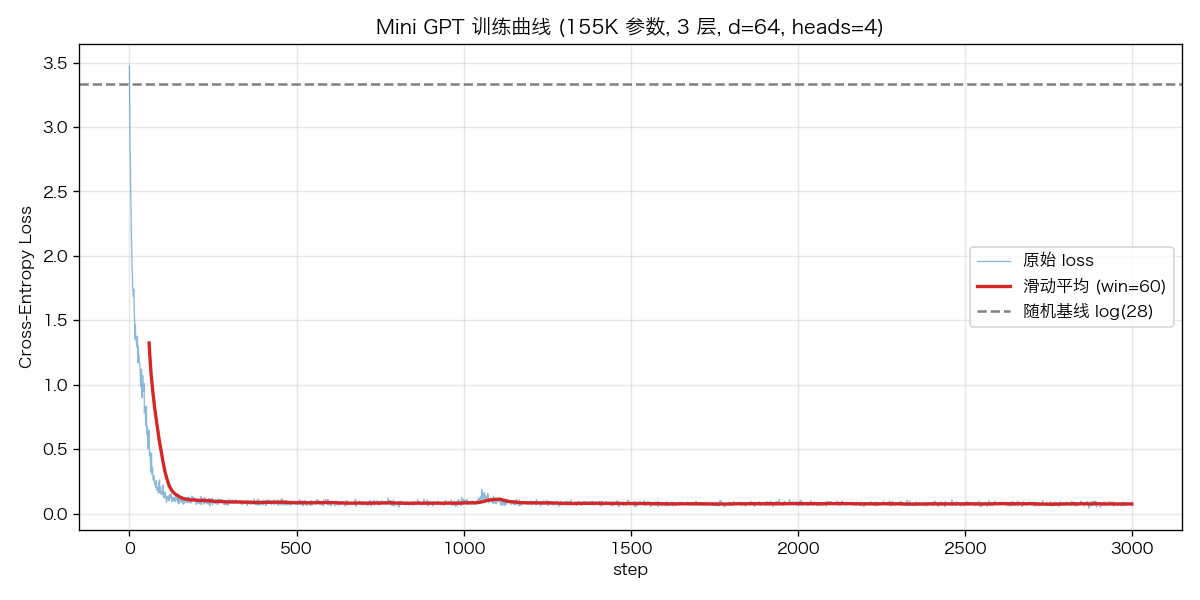
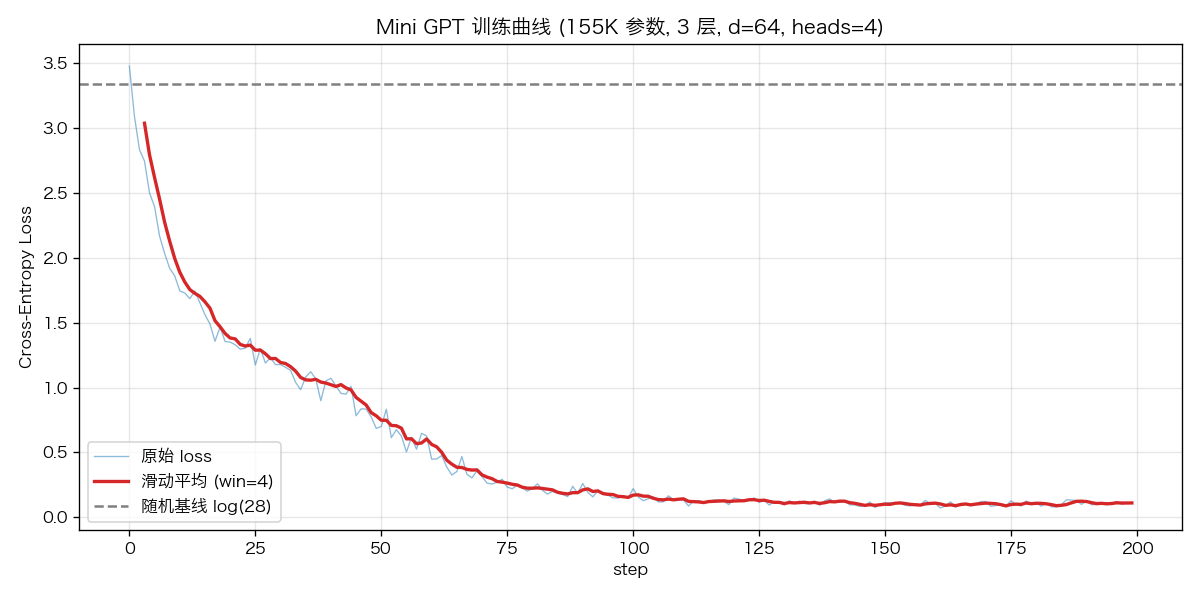
update scripts

diff --git a/exercises/transformer/common.py b/exercises/transformer/common.py
@@ -1,4 +1,10 @@
-"""共用工具:matplotlib 中文配置 + --plot 参数解析 + 保存到 plots/ 子目录。"""
+"""共用工具:matplotlib 中文配置 + --plot/--save 参数解析 + 保存到 plots/ 子目录。
+
+参数语义:
+  --plot   生成并显示图 (plt.show())
+  --save   生成并保存图到 plots/ (不显示)
+  两个可以同时用; 都不加时跳过画图。
+"""
 
 import argparse
 from pathlib import Path
@@ -17,13 +23,22 @@ PLOTS_DIR = Path(__file__).parent / "plots"
 
 
 def parse_args(extra=None):
-    """解析命令行参数。extra 可以是一个回调, 接受 parser 添加额外参数。"""
+    """解析命令行参数。extra 可以是一个回调, 接受 parser 添加额外参数。
+
+    args.plot:  显示图 (plt.show)
+    args.save:  保存图到 plots/
+    args.draw:  方便判断"是否需要画图" (= plot or save)
+    """
     p = argparse.ArgumentParser()
     p.add_argument("--plot", action="store_true",
-                   help="生成图片到 plots/ 子目录 (默认不画图)")
+                   help="生成并显示图 (plt.show)")
+    p.add_argument("--save", action="store_true",
+                   help="生成并保存图到 plots/ 子目录")
     if extra is not None:
         extra(p)
-    return p.parse_args()
+    args = p.parse_args()
+    args.draw = args.plot or args.save   # 任一开关都需要构建 figure
+    return args
 
 
 def save_fig(name: str, dpi: int = 120, bbox_inches: str | None = None) -> Path:
@@ -35,3 +50,12 @@ def save_fig(name: str, dpi: int = 120, bbox_inches: str | None = None) -> Path:
         kwargs["bbox_inches"] = bbox_inches
     plt.savefig(path, **kwargs)
     return path
+
+
+def finalize(args, name: str, bbox_inches: str | None = None):
+    """根据 args 处理 figure 的最后一步: save (if --save), show (if --plot)。"""
+    if args.save:
+        path = save_fig(name, bbox_inches=bbox_inches)
+        print(f"图已保存到 {path}")
+    if args.plot:
+        plt.show()

diff --git a/exercises/neural-network/common.py b/exercises/neural-network/common.py
@@ -1,4 +1,10 @@
-"""共用工具:matplotlib 中文配置 + --plot 参数解析 + 保存到 plots/ 子目录。"""
+"""共用工具:matplotlib 中文配置 + --plot/--save 参数解析 + 保存到 plots/ 子目录。
+
+参数语义:
+  --plot   生成并显示图 (plt.show())
+  --save   生成并保存图到 plots/ (不显示)
+  两个可以同时用; 都不加时跳过画图。
+"""
 
 import argparse
 from pathlib import Path
@@ -17,10 +23,15 @@ PLOTS_DIR = Path(__file__).parent / "plots"
 
 
 def parse_args():
+    """args.plot = 显示, args.save = 保存, args.draw = 任一开启就需要画。"""
     p = argparse.ArgumentParser()
     p.add_argument("--plot", action="store_true",
-                   help="生成图片到 plots/ 子目录 (默认不画图)")
-    return p.parse_args()
+                   help="生成并显示图 (plt.show)")
+    p.add_argument("--save", action="store_true",
+                   help="生成并保存图到 plots/ 子目录")
+    args = p.parse_args()
+    args.draw = args.plot or args.save
+    return args
 
 
 def save_fig(name: str, dpi: int = 120, bbox_inches: str | None = None) -> Path:
@@ -32,3 +43,12 @@ def save_fig(name: str, dpi: int = 120, bbox_inches: str | None = None) -> Path:
         kwargs["bbox_inches"] = bbox_inches
     plt.savefig(path, **kwargs)
     return path
+
+
+def finalize(args, name: str, bbox_inches: str | None = None):
+    """根据 args 处理 figure 的最后一步: save (if --save), show (if --plot)。"""
+    if args.save:
+        path = save_fig(name, bbox_inches=bbox_inches)
+        print(f"图已保存到 {path}")
+    if args.plot:
+        plt.show()

diff --git a/exercises/neural-network/02_activation_functions.py b/exercises/neural-network/02_activation_functions.py
@@ -145,7 +145,7 @@ def main():
     # 2. 画 6 个子图, 每个 subplot 同时画函数(蓝实线) + 导数(红虚线)
     #    导数 = 0 的区域 → 梯度消失高发区
     # =========================================================
-    if args.plot:
+    if args.draw:
         fig, axes = plt.subplots(2, 3, figsize=(15, 9))
 
         for ax, (name, f, g, note) in zip(axes.flat, funcs):
@@ -160,11 +160,9 @@ def main():
 
         plt.suptitle("常见激活函数及其导数 (蓝=函数, 红虚线=导数)", fontsize=14, y=1.00)
         plt.tight_layout()
-        plt.show()
-        # path = common.save_fig("02_activation_functions", bbox_inches="tight")
-        # print(f"\n图已保存到 {path}")
+        common.finalize(args, "02_activation_functions", bbox_inches="tight")
     else:
-        print("\n(未画图。加 --plot 生成 plots/02_activation_functions.png)")
+        print("\n(未画图。加 --plot 显示图, --save 保存到 plots/)")
 
 
 if __name__ == "__main__":

diff --git a/exercises/neural-network/03_why_nonlinearity.py b/exercises/neural-network/03_why_nonlinearity.py
@@ -178,7 +178,7 @@ def main():
     #    左图: 一条直线 (线性激活只能这样)
     #    右图: 弯曲的两条线把 XOR 正确分开
     # =========================================================
-    if args.plot:
+    if args.draw:
         fig, axes = plt.subplots(1, 2, figsize=(13, 5.5))
         plot_boundary(axes[0], model_linear, X, y,
                       f"线性激活 (恒等)  acc={acc_lin:.0%}\n→ 只能画直线, 学不会 XOR")
@@ -186,10 +186,9 @@ def main():
                       f"ReLU 激活  acc={acc_relu:.0%}\n→ 能弯曲决策边界, 学会了 XOR")
 
         plt.tight_layout()
-        path = common.save_fig("03_why_nonlinearity")
-        print(f"\n图已保存到 {path}")
+        common.finalize(args, "03_why_nonlinearity")
     else:
-        print("\n(未画图。加 --plot 生成 plots/03_why_nonlinearity.png)")
+        print("\n(未画图。加 --plot 显示图, --save 保存到 plots/)")
 
 
 if __name__ == "__main__":

diff --git a/exercises/neural-network/06_mlp_complete.py b/exercises/neural-network/06_mlp_complete.py
@@ -174,7 +174,7 @@ def main():
     #    上排: epoch 0 / 100 / 400 的决策边界 — 看模型怎么逐步学会月牙形
     #    下排: loss 曲线 + accuracy 曲线 + 实验配置文字总结
     # =========================================================
-    if args.plot:
+    if args.draw:
         fig = plt.figure(figsize=(15, 9))
 
         # ===== 上排 3 图: 3 个阶段的决策边界 =====
@@ -229,10 +229,9 @@ def main():
 
         plt.suptitle("完整 MLP 训练 (nn.Module + Adam + make_moons)", fontsize=14, y=1.00)
         plt.tight_layout()
-        path = common.save_fig("06_mlp_complete", bbox_inches="tight")
-        print(f"\n图已保存到 {path}")
+        common.finalize(args, "06_mlp_complete", bbox_inches="tight")
     else:
-        print("\n(未画图。加 --plot 生成 plots/06_mlp_complete.png)")
+        print("\n(未画图。加 --plot 显示图, --save 保存到 plots/)")
 
 
 if __name__ == "__main__":

diff --git a/exercises/transformer/03_multihead_attention.py b/exercises/transformer/03_multihead_attention.py
@@ -156,7 +156,7 @@ def main():
     # =========================================================
     # 5. 可视化: 4 个头的 attention 并排
     # =========================================================
-    if args.plot:
+    if args.draw:
         fig, axes = plt.subplots(1, n_heads, figsize=(4 * n_heads, 4.5))
 
         for h in range(n_heads):
@@ -182,10 +182,9 @@ def main():
                      f"(d_model={d_model}, head_dim={d_model // n_heads})",
                      fontsize=13)
         plt.tight_layout()
-        path = common.save_fig("03_multihead_attention", bbox_inches="tight")
-        print(f"\n图已保存到 {path}")
+        common.finalize(args, "03_multihead_attention", bbox_inches="tight")
     else:
-        print("\n(未画图。加 --plot 生成 plots/03_multihead_attention.png)")
+        print("\n(未画图。加 --plot 显示图, --save 保存到 plots/)")
 
 
 if __name__ == "__main__":

diff --git a/exercises/transformer/02_causal_self_attention.py b/exercises/transformer/02_causal_self_attention.py
@@ -141,7 +141,7 @@ def main():
     # =========================================================
     # 4. 可视化: 三张热图并列
     # =========================================================
-    if args.plot:
+    if args.draw:
         fig, axes = plt.subplots(1, 3, figsize=(18, 5.5))
 
         # 左: 因果掩码本身 (下三角 1, 上三角 0)
@@ -184,10 +184,9 @@ def main():
 
         plt.suptitle("因果自注意力 — 为什么需要掩码", fontsize=14)
         plt.tight_layout()
-        path = common.save_fig("02_causal_self_attention", bbox_inches="tight")
-        print(f"\n图已保存到 {path}")
+        common.finalize(args, "02_causal_self_attention", bbox_inches="tight")
     else:
-        print("\n(未画图。加 --plot 生成 plots/02_causal_self_attention.png)")
+        print("\n(未画图。加 --plot 显示图, --save 保存到 plots/)")
 
 
 if __name__ == "__main__":

diff --git a/exercises/transformer/04_transformer_block.py b/exercises/transformer/04_transformer_block.py
@@ -193,7 +193,7 @@ def main():
     # =========================================================
     # 4. 可视化: 数据流过 6 层后的"激活分布"
     # =========================================================
-    if args.plot:
+    if args.draw:
         # 重新跑一遍, 收集每层输出
         outputs = [x]
         h = x
@@ -228,10 +228,9 @@ def main():
 
         plt.suptitle(f"6 层 Transformer Block 堆叠 (d={d_model}, heads={n_heads})", fontsize=13)
         plt.tight_layout()
-        path = common.save_fig("04_transformer_block", bbox_inches="tight")
-        print(f"\n图已保存到 {path}")
+        common.finalize(args, "04_transformer_block", bbox_inches="tight")
     else:
-        print("\n(未画图。加 --plot 生成 plots/04_transformer_block.png)")
+        print("\n(未画图。加 --plot 显示图, --save 保存到 plots/)")
 
 
 if __name__ == "__main__":

diff --git a/exercises/transformer/01_attention_scratch.py b/exercises/transformer/01_attention_scratch.py
@@ -130,7 +130,7 @@ def main():
     # =========================================================
     # 5. 可视化注意力矩阵 (热图)
     # =========================================================
-    if args.plot:
+    if args.draw:
         fig, axes = plt.subplots(1, 2, figsize=(14, 6))
 
         # 左图: 原始打分 (未 softmax)
@@ -167,10 +167,9 @@ def main():
 
         plt.suptitle("Scaled Dot-Product Attention 注意力矩阵", fontsize=14)
         plt.tight_layout()
-        path = common.save_fig("01_attention_scratch", bbox_inches="tight")
-        print(f"\n图已保存到 {path}")
+        common.finalize(args, "01_attention_scratch", bbox_inches="tight")
     else:
-        print("\n(未画图。加 --plot 生成 plots/01_attention_scratch.png)")
+        print("\n(未画图。加 --plot 显示图, --save 保存到 plots/)")
 
 
 if __name__ == "__main__":

diff --git a/exercises/transformer/06_train_and_generate.py b/exercises/transformer/06_train_and_generate.py
@@ -247,7 +247,7 @@ def main():
     # =========================================================
     # 6. 画 loss 曲线
     # =========================================================
-    if args.plot:
+    if args.draw:
         fig, ax = plt.subplots(figsize=(10, 5))
         ax.plot(losses, color="tab:blue", linewidth=0.8, alpha=0.5, label="原始 loss")
         # 滑动平均让曲线平滑
@@ -266,10 +266,9 @@ def main():
         ax.legend()
         ax.grid(True, alpha=0.3)
         plt.tight_layout()
-        path = common.save_fig("06_train_and_generate")
-        print(f"\n图已保存到 {path}")
+        common.finalize(args, "06_train_and_generate")
     else:
-        print("\n(未画图。加 --plot 生成 plots/06_train_and_generate.png)")
+        print("\n(未画图。加 --plot 显示图, --save 保存到 plots/)")
 
 
 if __name__ == "__main__":

diff --git a/exercises/neural-network/04_backprop_numpy.py b/exercises/neural-network/04_backprop_numpy.py
@@ -190,7 +190,7 @@ def main():
     # =========================================================
     # 5. 可视化: loss 曲线 + 决策边界
     # =========================================================
-    if args.plot:
+    if args.draw:
         fig, (ax1, ax2) = plt.subplots(1, 2, figsize=(13, 5.5))
 
         # Loss 曲线: 用对数刻度 (因为 loss 跨好几个数量级)
@@ -220,10 +220,9 @@ def main():
         ax2.grid(True, alpha=0.3)
 
         plt.tight_layout()
-        path = common.save_fig("04_backprop_numpy")
-        print(f"\n图已保存到 {path}")
+        common.finalize(args, "04_backprop_numpy")
     else:
-        print("\n(未画图。加 --plot 生成 plots/04_backprop_numpy.png)")
+        print("\n(未画图。加 --plot 显示图, --save 保存到 plots/)")
 
 
 if __name__ == "__main__":

diff --git a/exercises/neural-network/01_perceptron.py b/exercises/neural-network/01_perceptron.py
@@ -80,7 +80,7 @@ def main():
     # =========================================================
     # 4. 可视化: 数据 + 决策边界
     # =========================================================
-    if args.plot:
+    if args.draw:
         fig, ax = plt.subplots(figsize=(7, 6))
         ax.scatter(X0[:, 0], X0[:, 1], c="tab:blue", label="类 0", alpha=0.7)
         ax.scatter(X1[:, 0], X1[:, 1], c="tab:red", label="类 1", alpha=0.7)
@@ -98,9 +98,9 @@ def main():
         ax.set_aspect("equal")
 
         plt.tight_layout()
-        plt.show()
+        common.finalize(args, "01_perceptron")
     else:
-        print("\n(未画图。加 --plot 生成 plots/01_perceptron.png)")
+        print("\n(未画图。加 --plot 显示图, --save 保存到 plots/)")
 
 
 if __name__ == "__main__":
